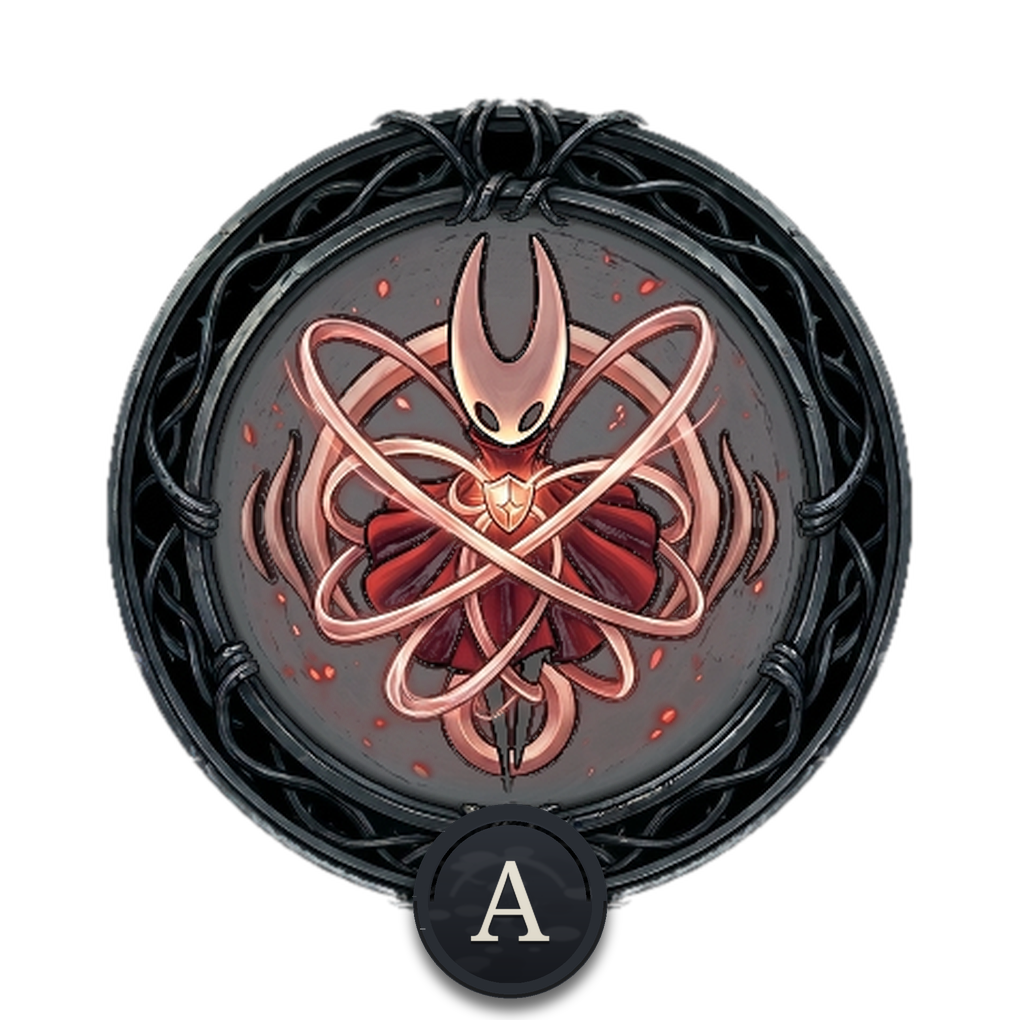
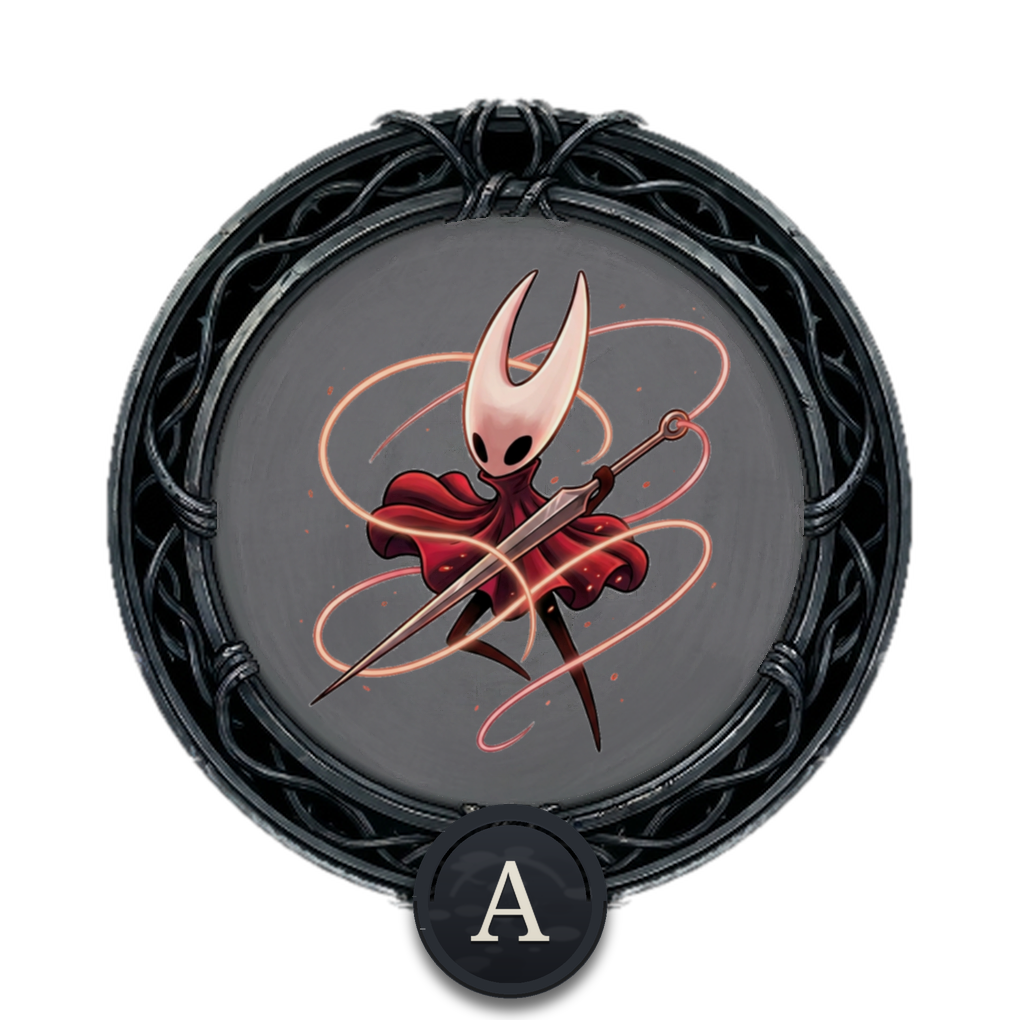
Silksong pad: glass glyphs at one height, title D-pad pitch 110, Needolin/Clawline seats swapped, bag Y key, new Bind art
Glass: two-letter glyphs (ZL/ZR) and the eye's ON/OFF word now size at the
single letters' 0.84 of the drawn radius (was 0.62), and the - / + bars draw
at 0.525 of the radius so a sign's height matches a letter's cap height.
Title D-pad: pitch 120 -> 110 (keys 125 across, overlap 15, cluster centre
unchanged). Combat seats: Needolin takes the attack row's left seat and
Clawline the column seat above Bind (tool unmoved; the controller pages'
letters follow the seats, the custom offsets stay keyed by art name).
Bag: a Y key one column pitch above X, on the crests tab's terms with X
(shown only there or while the tab is unknown, in both draw paths and the
touch routing), with new bagy art in the three image sets. The three image
skins' Bind art is replaced by the new hand-drawn Hornet art, colour-graded
to each set's original Bind values.

Changed region(s): [[0.2127, 0.2127, 0.7902, 0.7902]]

diff --git a/dm/ios/Sources/DmGamepad.m b/dm/ios/Sources/DmGamepad.m
@@ -148,10 +148,10 @@ static const struct { const char *art; int bit; int grp; CGFloat x, y, r; } k_sk
     {"attack",   B_Y,     SK_ALWAYS, 0.7859, 0.770, 0.0374},   // needle attack: the fan's left key, level with the jump pivot
     {"jump",     B_B,     SK_ALWAYS, 0.898, 0.770, 0.0480},   // the fan's pivot at the bottom-right corner, the largest key
     {"dash",     B_ZR,    SK_ALWAYS, 0.8188, 0.5983, 0.0374},   // Swift Step: tap dashes, hold sprints; the fan's 45-degree key
-    {"tool",     B_R,     SK_SKILL,  0.7103, 0.770, 0.0254},   // the equipped tool: in the attack row between Clawline and attack (swapped with Clawline's seat), a 30pt edge gap each side at the reference size; an eye-key skill key
-    {"needolin", B_X,     SK_SKILL,  0.898, 0.3631, 0.0254},   // Needolin: above Bind in its column, a 30pt edge gap over it at the reference size, in its original round frame; an eye-key skill key (the eye hides it with the other two)
+    {"tool",     B_R,     SK_SKILL,  0.7103, 0.770, 0.0254},   // the equipped tool: in the attack row between Needolin and attack, a 30pt edge gap each side at the reference size; an eye-key skill key
+    {"needolin", B_X,     SK_SKILL,  0.6468, 0.770, 0.0254},   // Needolin: in the attack row, leftmost of the three (swapped with Clawline's seat), a 30pt edge gap to the tool at the reference size, in its original round frame; an eye-key skill key (the eye hides it with the other two)
     {"bind",     B_A,     SK_ALWAYS, 0.898, 0.5271, 0.0374},   // Bind (heal): the fan's top key, straight above the jump pivot
-    {"clawline", B_ZL,    SK_SKILL,  0.6468, 0.770, 0.0254},   // Clawline: in the attack row, leftmost of the three (swapped with the tool's seat), a 30pt edge gap to the tool at the reference size; an eye-key skill key
+    {"clawline", B_ZL,    SK_SKILL,  0.898, 0.3631, 0.0254},   // Clawline: above Bind in its column (swapped with the Needolin's seat), a 30pt edge gap over Bind at the reference size; an eye-key skill key
     {"eye",      0,       SK_TOGGLE, 0.670, 0.082, 0.0224},   // show / hide the skill keys
     {"map",      B_L,     SK_ALWAYS, 0.746, 0.082, 0.0224},   // quick map (the top row respaced evenly for four keys, shifted left so pause shares the fan's column)
     {"bag",      B_MINUS, SK_ALWAYS, 0.822, 0.082, 0.0224},   // inventory
@@ -243,16 +243,16 @@ static UIImage *namedPressedImage(const char *name) {   // the pressed-state art
     char pn[64]; snprintf(pn, sizeof pn, "%s_p", name); return skinImage(pn);
 }
 // ---- Bag layout (pad mode 4: the inventory is open) ----
-// While the inventory is open the combat pad gives way to nine keys of its own: a D-pad of four separate keys at the left
-// (the stick and its disc go away), X / A / B in a column at the right, and L / R alone at the top, for the inventory's
+// While the inventory is open the combat pad gives way to ten keys of its own: a D-pad of four separate keys at the left
+// (the stick and its disc go away), X / Y / A / B in a column at the right, and L / R alone at the top, for the inventory's
 // tabs. The layout is the measured one approved on the inventory's own screenshot (1564x720, the 19.5:9 frame): each
 // side's keys centre in the black bar between the inventory's white frame and the screen edge, the two groups share one
 // horizontal line (y 0.6389), and B sat at the combat bottom row's own height (the column scaling below lifts it a
 // hair). The D-pad cross was widened after the
 // first on-device pass: bigger keys (r 0.0248), the vertical pair spread further apart (72 in the frame) and the
-// horizontal pair drawn closer in (52), the group centre unmoved. The X / A / B column is scaled by the combat
+// horizontal pair drawn closer in (52), the group centre unmoved. The X / Y / A / B column is scaled by the combat
 // cluster's own factor (0.9731) about A -- A keeps the groups' shared line and B ends a hair above the combat
-// bottom row -- so the two layouts' right-hand keys shrink together. The X key shows only on the crests tab
+// bottom row -- so the two layouts' right-hand keys shrink together. The X and Y keys show only on the crests tab
 // (bagXShown). Centres and radii follow the k_skin
 // convention, skinCenter's stacking included but without the Up key's disc exemption (the four D-pad keys move as one
 // cross). The art is the bag set in dm/padskin and dm/padskin-badge, made by dm/ios/tools/make_bagskin.py; dir is
@@ -263,6 +263,7 @@ static const struct { const char *art; int bit; int dir; CGFloat x, y, r; } k_ba
     {"bagdleft",  B_LEFT,  0, 0.0384, 0.6389, 0.0248},
     {"bagdright", B_RIGHT, 3, 0.1049, 0.6389, 0.0248},
     {"bagx",       B_X,    -1, 0.9316, 0.4605, 0.0390},
+    {"bagy",       B_Y,    -1, 0.9316, 0.2827, 0.0390},   // one column pitch above X, on the crests tab's terms with it
     {"baga",       B_A,    -1, 0.9316, 0.6390, 0.0390},
     {"bagb",       B_B,    -1, 0.9316, 0.8172, 0.0390},
     {"bagl",       B_L,    -1, 0.0716, 0.075,  0.023},
@@ -270,6 +271,7 @@ static const struct { const char *art; int bit; int dir; CGFloat x, y, r; } k_ba
 };
 #define BAG_N (int)(sizeof k_bag / sizeof k_bag[0])
 #define BAG_X 4   // the X key's row in k_bag: it serves the crests tab alone, so it shows only while that tab is up (bagXShown)
+#define BAG_Y 5   // the Y key's row in k_bag: the crests tab's second key, on the X key's terms (bagXShown)
 static CGPoint bagCenter(int i, CGRect b) {   // bag key i's centre, in points (the layout and the touch hit test share it)
     CGFloat y = k_bag[i].y;
     if (y > 0.2) y = 0.822 + (y - 0.822) * SKIN_REF_HW * b.size.width / b.size.height;
@@ -277,7 +279,7 @@ static CGPoint bagCenter(int i, CGRect b) {   // bag key i's centre, in points (
 }
 static NSString *bagGlyph(int i) {   // a bag key's glass glyph: the letter keys'; the D-pad keys carry a triangle instead
     const char *a = k_bag[i].art;
-    if (!strcmp(a, "bagx")) return @"X"; if (!strcmp(a, "baga")) return @"A"; if (!strcmp(a, "bagb")) return @"B";
+    if (!strcmp(a, "bagx")) return @"X"; if (!strcmp(a, "bagy")) return @"Y"; if (!strcmp(a, "baga")) return @"A"; if (!strcmp(a, "bagb")) return @"B";
     if (!strcmp(a, "bagl")) return @"L"; if (!strcmp(a, "bagr")) return @"R";
     return nil;
 }
@@ -329,15 +331,15 @@ static CGFloat letArtScale(void) {   // every letter key ships a badge version o
 // ---- Title D-pad (pad modes 5 and 7: the menu pages' direction keys, in place of the stick) ----
 // Four separate keys in the bag page's plus arrangement, but at equal pitch both ways (the bag
 // page's horizontal squeeze dodges the inventory's art; the menu pages have nothing to dodge):
-// on the reference screen each key is 125 across, the centres 120 apart in both axes (the
-// four keys overlap by 5), the cluster centred at
+// on the reference screen each key is 125 across, the centres 110 apart in both axes (the
+// four keys overlap by 15), the cluster centred at
 // (0.1077, 0.7222). dir is triPath's order, for the glass keys' arrows; the art is the bag
 // set's own D-pad art (bagd*)
 static const struct { const char *art; int bit; int dir; CGFloat x, y, r; } k_tpad[] = {
-    {"bagdleft",  B_LEFT,  0, 0.0565, 0.7222, 0.02666},
-    {"bagdup",    B_UP,    1, 0.1077, 0.6111, 0.02666},
-    {"bagddown",  B_DOWN,  2, 0.1077, 0.8333, 0.02666},
-    {"bagdright", B_RIGHT, 3, 0.1589, 0.7222, 0.02666},
+    {"bagdleft",  B_LEFT,  0, 0.0608, 0.7222, 0.02666},
+    {"bagdup",    B_UP,    1, 0.1077, 0.6204, 0.02666},
+    {"bagddown",  B_DOWN,  2, 0.1077, 0.8240, 0.02666},
+    {"bagdright", B_RIGHT, 3, 0.1546, 0.7222, 0.02666},
 };
 #define TPAD_N (int)(sizeof k_tpad / sizeof k_tpad[0])
 static CGPoint tpadCenter(int j, CGRect b) {   // title D-pad key j's centre, in points (titleCenter's remap, so the cross keeps its shape on any screen)
@@ -580,7 +582,7 @@ static void pads_start(void);   // Physical controllers, below
     CAShapeLayer *_editRing;                       // the ring around the editor's selected key
     CALayer *_skipKey, *_padKey;   // the cutscene keys: the skin's Skip medallion at the Bind key's place, its Pad medallion at the eye key's place (drawn in every skin mode, glass included)
     int _padMode; BOOL _padPeek;                   // the host's pad mode (hle_hid.c dm_pad_mode) and the player's recall of the pad for the rest of the mode
-    int _padTab;                                   // the host's inventory tab (dm_pad_tab) as last polled: a change inside the inventory only re-runs refresh (the bag X key follows the crests tab)
+    int _padTab;                                   // the host's inventory tab (dm_pad_tab) as last polled: a change inside the inventory only re-runs refresh (the bag X and Y keys follow the crests tab)
     int _padPage;                                  // the host's current page (dm_pad_page) as last polled: a change between the controller pages only re-runs refresh
     NSTimer *_padTimer;                            // polls the pad mode while the skin is up
     BOOL _hades;                                   // DM_PAD_HADES: the glass controls below replace the drawn ones
@@ -852,10 +854,10 @@ static CGFloat dist(CGPoint a, CGPoint b) { return hypot(a.x - b.x, a.y - b.y); 
         if (dist(p, c) <= skinR(i) * b.size.width * 1.35) return i; }
     return -1;
 }
-- (int)bagBtnAt:(CGPoint)p {   // bag mode: the bag key under the point, or -1 (the X key takes no touch while it is hidden off the crests tab)
+- (int)bagBtnAt:(CGPoint)p {   // bag mode: the bag key under the point, or -1 (the X and Y keys take no touch while they are hidden off the crests tab)
     CGRect b = self.bounds;
     for (int j = 0; j < BAG_N; j++) {
-        if (j == BAG_X && ![self bagXShown]) continue;
+        if ((j == BAG_X || j == BAG_Y) && ![self bagXShown]) continue;
         CGPoint c = bagCenter(j, b);
         if (dist(p, c) <= k_bag[j].r * b.size.width * 1.35) return j; }
     return -1;
@@ -1015,7 +1017,7 @@ int front_web_touch(void);
                 [self updateEditInfo]; [self setNeedsLayout]; continue; }
             if ((_padMode == 2 || _padMode == 3) && !_padPeek && dist(p, skinCenter(7, self.bounds)) <= skinR(7) * self.bounds.size.width * 1.35) { _padPeek = YES; [self applyPadMode]; continue; }   // the Pad recall key: the pad comes back for the rest of the cutscene
             if (_padMode == 3 && !_padPeek && dist(p, skinCenter(5, self.bounds)) <= skinR(5) * self.bounds.size.width * 1.35) { [_owner setObject:@(C_BTN | (uint64_t)B_A << 8) forKey:t]; continue; }   // the Skip key: A, through the usual input path
-            if (_padMode == 4) { int bb = [self bagBtnAt:p]; if (bb >= 0) { [_owner setObject:@(C_BTN | (uint64_t)k_bag[bb].bit << 8) forKey:t]; continue; } game |= [self gameBegin:t]; continue; }   // the bag layout: its nine keys take the touch (no stick: the disc is gone); every other touch is the game's
+            if (_padMode == 4) { int bb = [self bagBtnAt:p]; if (bb >= 0) { [_owner setObject:@(C_BTN | (uint64_t)k_bag[bb].bit << 8) forKey:t]; continue; } game |= [self gameBegin:t]; continue; }   // the bag layout: its ten keys take the touch (no stick: the disc is gone); every other touch is the game's
             if (_padMode == 5 || _padMode == 7) { int tb = [self titleBtnAt:p]; if (tb >= 0) { [_owner setObject:@(C_BTN | (uint64_t)k_title[tb].bit << 8) forKey:t]; continue; }
                 int tp = [self tpadBtnAt:p]; if (tp >= 0) { [_owner setObject:@(C_BTN | (uint64_t)k_tpad[tp].bit << 8) forKey:t]; continue; }
                 game |= [self gameBegin:t]; continue; }   // the menu pages (and the achievements page, B alone through titleBtnAt): the D-pad and its letter keys take the touch (no stick there: its Up key would double-fire under the D-pad's); every other touch is the game's
@@ -1088,15 +1090,15 @@ int front_web_touch(void);
 // the glass controls at their places stay hidden with the rest of the glass pad while they show.
 // Mode 4 (the inventory is open) is not a hiding: the combat pad gives way to the bag layout (k_bag) for as long as the
 // inventory lasts — the stick disc and knob included — and closing the inventory restores the pad exactly as it was.
-// Inside the inventory the bag's X key follows the game's own current tab (dm_pad_tab): it serves the crests tab alone,
-// so it hides on the other tabs and comes back with the crests; while the tab reads unknown it stays shown
+// Inside the inventory the bag's X and Y keys follow the game's own current tab (dm_pad_tab): they serve the crests tab alone,
+// so they hide on the other tabs and come back with the crests; while the tab reads unknown they stay shown
 // Modes 5 (the menu pages, and the pause with its options branch), 6 (the controller pages) and 7 (the
 // achievements page) are not hidings either: the menu pages swap the stick for a D-pad (k_tpad) beside
 // their two letter keys (k_title), the achievements page keeps the D-pad and B alone (k_title's second key), the controller pages keep every key at its seat with its letter in place of its icon
 // (the let* layers, the glass skin's own labels), the skill keys' eye gate aside, so the key-binding page can be worked.
 // Before the watcher publishes its first mode the mode reads -1 and the whole pad is hidden: the game is still loading
 - (BOOL)padHidden { return _padMode != 0 && _padMode != 5 && _padMode != 6 && _padMode != 7 && !_padPeek; }   // play and the menu layouts show their own keys; every other mode hides the combat pad, the unpublished -1 with them
-- (BOOL)bagXShown { int t = dm_pad_tab(); return t < 0 || t == 1; }   // the bag's X key serves the crests tab alone: shown on that tab, and while the tab is unknown (the hero unread or a value out of range) -- never hidden on a guess
+- (BOOL)bagXShown { int t = dm_pad_tab(); return t < 0 || t == 1; }   // the bag's X and Y keys serve the crests tab alone: shown on that tab, and while the tab is unknown (the hero unread or a value out of range) -- never hidden on a guess
 - (BOOL)skinKeyHidden:(int)i {   // skin key i's icon layer in the current mode: the one rule applyPadMode and refresh share
     if (!_sSkinMode) return YES;   // the glass choice draws its own discs; the image layers stay hidden under it
     if (_editing) return NO;   // the layout editor shows every key, the eye's hidden skill keys included
@@ -1163,7 +1165,7 @@ int front_web_touch(void);
     for (int j = 0; j < TPAD_N; j++) _tpadBtn[j].hidden = !(_padMode == 5 || _padMode == 7) || !_sSkinMode;   // the title D-pad's art layers ride the menu pages with the letter keys
     for (int j = 0; j < TITLE_N; j++) _tGlass[j].hidden = _tWash[j].hidden = _tLabel[j].hidden = !((_padMode == 5) || (_padMode == 7 && k_title[j].bit == B_B)) || _sSkinMode != 0;   // the glass choice's own title discs, on the title keys' terms
     for (int j = 0; j < TPAD_N; j++) _pGlass[j].hidden = _pWash[j].hidden = _pSym[j].hidden = !(_padMode == 5 || _padMode == 7) || _sSkinMode != 0;   // the glass choice's title D-pad
-    for (int j = 0; j < BAG_N; j++) _bagBtn[j].hidden = !bag || !_sSkinMode || (j == BAG_X && ![self bagXShown]);
+    for (int j = 0; j < BAG_N; j++) _bagBtn[j].hidden = !bag || !_sSkinMode || ((j == BAG_X || j == BAG_Y) && ![self bagXShown]);
     _skipKey.hidden = !(_padMode == 3 && !_padPeek);   // the cutscene keys are drawn medallions in every skin mode, the glass choice included: the glass pad yields their places (its box hides below, each glass key in refresh, both with padHidden)
     _padKey.hidden = !((_padMode == 2 || _padMode == 3) && !_padPeek);
     if (_sGlassBox) _sGlassBox.hidden = _sSkinMode >= 1 || ([self padHidden] && !bag);   // the glass box: covered by the image skin; hidden while the pad is, except in the inventory, whose glass keys live in it
@@ -1272,9 +1274,9 @@ static void placeLabel(CATextLayer *t, CGPoint c, CGFloat fs) {
                 CGFloat dr = r * GLASS_BTN_F;   // the drawn disc at 0.93 of the nominal radius (GLASS_BTN_F), its glyph and wash scaled with it
                 _sGlass[i].frame = CGRectMake(c.x - dr, c.y - dr, 2 * dr, 2 * dr); glassDiscLayout(_sGlass[i], dr);
                 setPath(_sWash[i], circlePath(c, dr));
-                if (_sLabel[i]) placeGlassLabel(_sLabel[i], c, silkGlyph(i).length > 1 ? dr * 0.62 : dr * 0.84);   // the restyle's glyph sizes: a single letter at 0.42 of the disc's height, a two-letter one at 0.31
-                else if (_sSym[i]) setPath(_sSym[i], k_skin[i].grp == SK_TOGGLE ? circlePath(c, dr * 0.20) : symPath(c, dr, k_skin[i].bit == B_PLUS));
-                if (k_skin[i].grp == SK_TOGGLE && _eyeLabel) placeGlassLabel(_eyeLabel, c, dr * 0.62); }   // the eye's state word, sized as a two-letter glyph
+                if (_sLabel[i]) placeGlassLabel(_sLabel[i], c, dr * 0.84);   // the restyle's glyph size: every letter at 0.42 of the disc's height, one letter or two
+                else if (_sSym[i]) setPath(_sSym[i], k_skin[i].grp == SK_TOGGLE ? circlePath(c, dr * 0.20) : symPath(c, dr * 0.525, k_skin[i].bit == B_PLUS));   // the - / + bars at 0.525 of the disc's radius, so a sign's height matches a letter's cap height
+                if (k_skin[i].grp == SK_TOGGLE && _eyeLabel) placeGlassLabel(_eyeLabel, c, dr * 0.84); }   // the eye's state word, at the letters' size
             for (int j = 0; j < BAG_N; j++) if (_bGlass[j]) { CGFloat r = k_bag[j].r * b.size.width; CGPoint c = bagCenter(j, b);
                 CGFloat dr = r * GLASS_BTN_F;
                 _bGlass[j].frame = CGRectMake(c.x - dr, c.y - dr, 2 * dr, 2 * dr); glassDiscLayout(_bGlass[j], dr);
@@ -1355,8 +1357,8 @@ static void placeLabel(CATextLayer *t, CGPoint c, CGFloat fs) {
             _skinBtn[i].contents = (id)(p ? p : skinImage(k_skin[i].art)).CGImage;
             _skinBtn[i].opacity = (_editing && _skillOff && k_skin[i].grp == SK_SKILL) ? 0.45 : 1.0;   // in the editor the eye's hidden skill keys show dimmed: shown (the editor shows every key), but marked as the hidden ones
             _skinBtn[i].transform = on ? CATransform3DMakeScale(0.93, 0.93, 1) : CATransform3DIdentity; }
-        if (_sSkinMode) for (int j = 0; j < BAG_N; j++) {   // the bag keys, shown only in the inventory, press like skin keys: the _p art and a dip while held (the X key only on the crests tab)
-            _bagBtn[j].hidden = _padMode != 4 || (j == BAG_X && ![self bagXShown]);
+        if (_sSkinMode) for (int j = 0; j < BAG_N; j++) {   // the bag keys, shown only in the inventory, press like skin keys: the _p art and a dip while held (the X and Y keys only on the crests tab)
+            _bagBtn[j].hidden = _padMode != 4 || ((j == BAG_X || j == BAG_Y) && ![self bagXShown]);
             BOOL on = (_btnBits >> k_bag[j].bit) & 1;
             UIImage *p = on ? bagPressedImage(j) : nil;
             _bagBtn[j].contents = (id)(p ? p : skinImage(k_bag[j].art)).CGImage;
@@ -1401,9 +1403,9 @@ static void placeLabel(CATextLayer *t, CGPoint c, CGFloat fs) {
             CGPoint go = o; CGFloat gm = 0.604 * sR; if (ol > gm) { go.x *= gm / ol; go.y *= gm / ol; }   // the glass knob's own reach (see the clamp above)
             _sKnob.center = CGPointMake(h.x + go.x, h.y + go.y);
             _sStick.hidden = _sKnob.hidden = [self padHidden] || _padMode == 4 || _padMode == 5 || _padMode == 7;   // the menu pages have the D-pad in the stick's place
-            for (int j = 0; j < BAG_N; j++) { if (!_bWash[j]) continue;   // the bag keys as glass: shown only in the inventory, each key's wash lit while it is held (the X key only on the crests tab)
+            for (int j = 0; j < BAG_N; j++) { if (!_bWash[j]) continue;   // the bag keys as glass: shown only in the inventory, each key's wash lit while it is held (the X and Y keys only on the crests tab)
                 _bWash[j].opacity = ((_btnBits >> k_bag[j].bit) & 1) ? 0.35 : 0;
-                BOOL hid = _padMode != 4 || (j == BAG_X && ![self bagXShown]);
+                BOOL hid = _padMode != 4 || ((j == BAG_X || j == BAG_Y) && ![self bagXShown]);
                 if (_bGlass[j]) _bGlass[j].hidden = hid;
                 if (_bLabel[j]) _bLabel[j].hidden = hid;
                 if (_bSym[j]) _bSym[j].hidden = hid;
